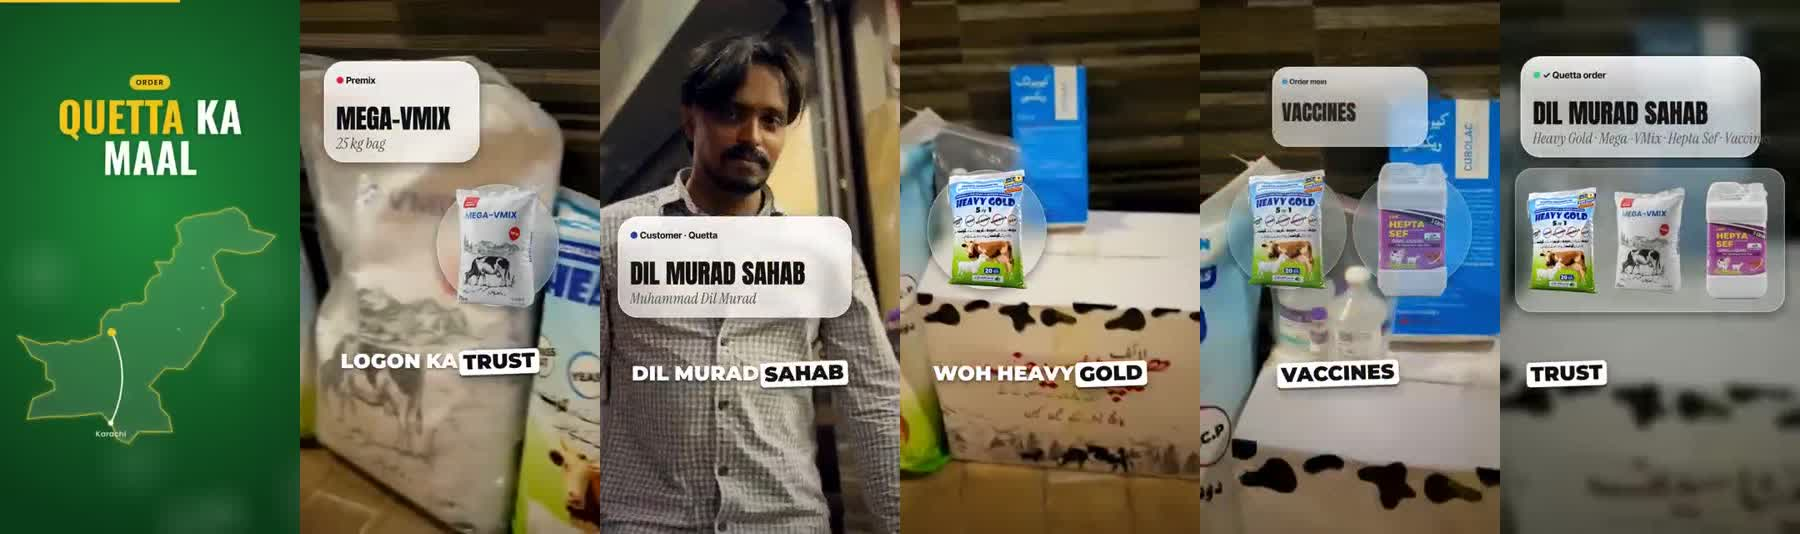
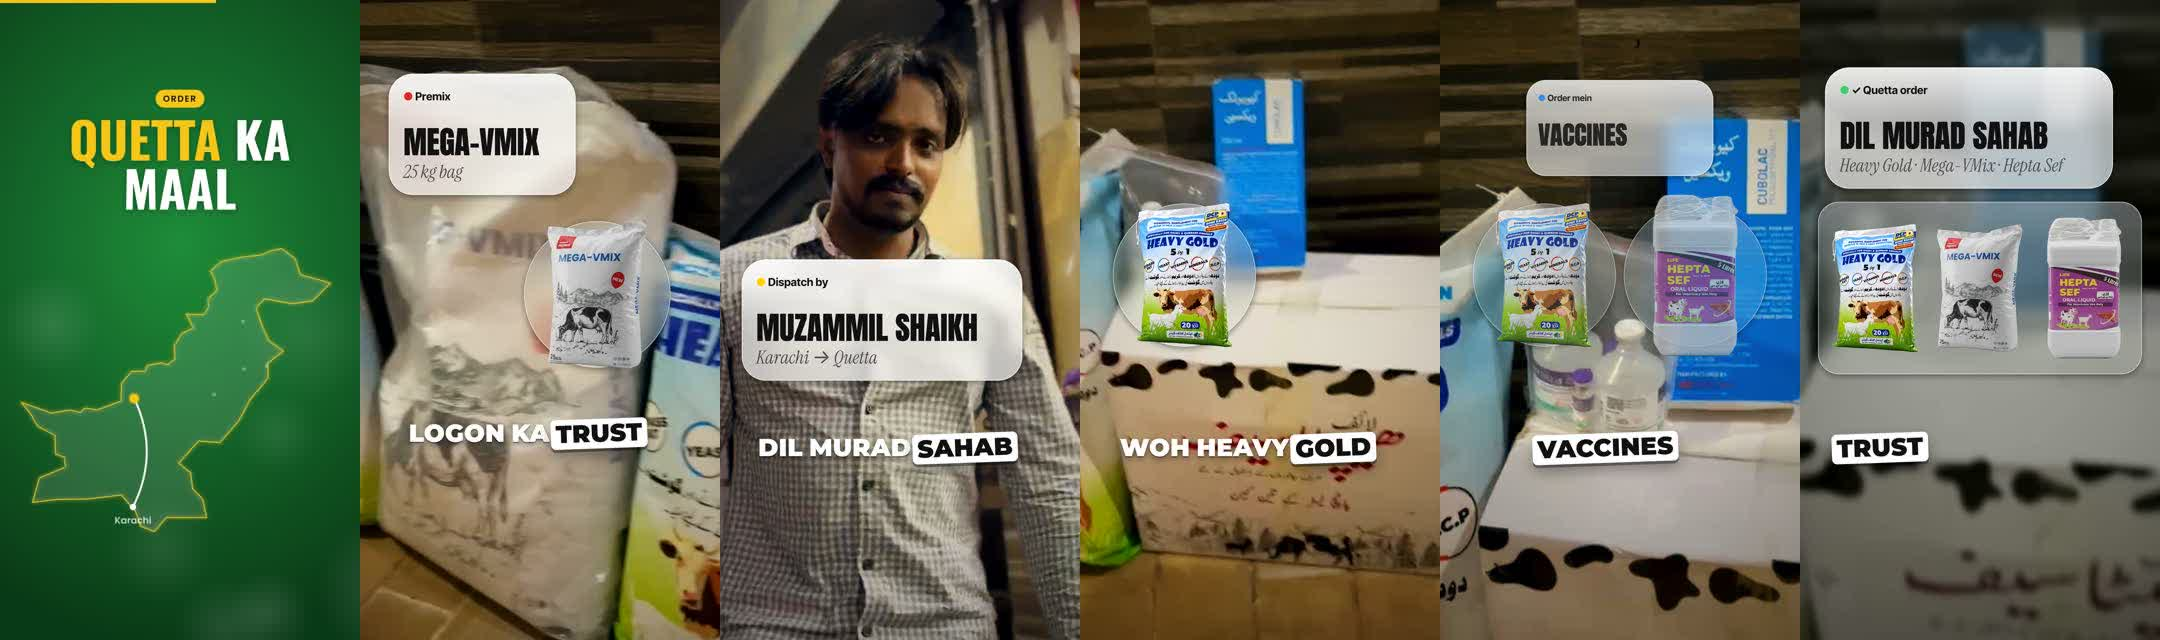
4K output: HTML layers rasterised at device scale, glass blur/border scale with width; Muzammil Shaikh widget
Claude-Session: https://claude.ai/code/session_0139To4Bi5mkGo2BmfVPNRP3

diff --git a/tools/htmlcaps/render.js b/tools/htmlcaps/render.js
@@ -14,7 +14,7 @@ const { chromium } = require("playwright");
     ${job.css}
   </style></head><body><div id="cap"></div></body></html>`;
   const browser = await chromium.launch();
-  const page = await browser.newPage({ viewport: { width: job.width, height: job.height }, deviceScaleFactor: 1 });
+  const page = await browser.newPage({ viewport: { width: job.width, height: job.height }, deviceScaleFactor: job.scale || 1 });
   // load from a file next to the job so file:// images (product cutouts) are allowed
   const path = require("path");
   const pagePath = path.join(path.dirname(path.resolve(process.argv[2])), "page.html");

diff --git a/tools/render.py b/tools/render.py
@@ -713,7 +713,7 @@ def glass_chain(gl: dict, k: int, cv: str, W: int, H: int, fps: int, total: floa
     face.putalpha(Image.fromarray(np.minimum(np.array(face.split()[-1]).astype(int) + np.array(hl).astype(int), 255).astype("uint8")))
     bd = Image.new("RGBA", (bw * ss, bh * ss), (0, 0, 0, 0))
     ImageDraw.Draw(bd).rounded_rectangle((ss, ss, bw * ss - ss - 1, bh * ss - ss - 1), rad * ss,
-                                         outline=bc + (int(255 * float(gl.get("border", 0.55))),), width=int(gl.get("border_width", 2)) * ss)
+                                         outline=bc + (int(255 * float(gl.get("border", 0.55))),), width=max(1, round(float(gl.get("border_width", 2)) * W / 1080)) * ss)
     face.alpha_composite(bd.resize((bw, bh), Image.LANCZOS))
     clear = Image.new("RGBA", (bw, bh), (0, 0, 0, 0))
     face = Image.composite(face, clear, mask)
@@ -728,7 +728,7 @@ def glass_chain(gl: dict, k: int, cv: str, W: int, H: int, fps: int, total: floa
         inputs += ["-loop", "1", "-framerate", str(fps), "-t", f"{total:.3f}", "-i", f"glass{k}_{name}.png"]
     fade = f"fade=t=in:st={s0}:d=0.25:alpha=1,fade=t=out:st={max(s0, s1 - 0.25):.3f}:d=0.25:alpha=1"
     en = f"enable='between(t,{s0},{s1})'"
-    blur = float(gl.get("blur", 22))
+    blur = float(gl.get("blur", 22)) * W / 1080  # same look at 1080p and 4K
     g.append(f"{cv}split[ga{k}][gb{k}]")
     g.append(f"[gb{k}]crop={bw}:{bh}:{x0}:{y0},gblur=sigma={blur},eq=brightness={float(gl.get("brightness", 0.05))}:saturation={float(gl.get("saturation", 1.3))},format=rgba[gbl{k}]")
     g.append(f"[{idx}:v]format=gray[gm{k}]")

diff --git a/tools/cards.py b/tools/cards.py
@@ -254,7 +254,9 @@ def map_svg(c: dict, t: float, W: int, H: int, th: dict) -> str:
 
 def build(edit: dict, out_dir: Path, fps: int, total: float, fonts: list, resolve_src) -> Path:
     need("node")
-    W, H = edit["output"]["width"], edit["output"]["height"]
+    OW, OH = edit["output"]["width"], edit["output"]["height"]
+    sc = OW / 1080 if OW > 1080 else 1  # 4K: lay out at 1080 wide, rasterise at device scale (sharp, same design)
+    W, H = round(OW / sc), round(OH / sc)
     brand = {**DEFAULT_THEME, **(edit.get("brand") or {})}
     shutil.rmtree(out_dir, ignore_errors=True)
     out_dir.mkdir(parents=True)
@@ -279,11 +281,11 @@ def build(edit: dict, out_dir: Path, fps: int, total: float, fonts: list, resolv
             k += 1
     css = (HERE / "cards.css").read_text(encoding="utf-8")
     job = out_dir / "job.json"
-    job.write_text(json.dumps({"width": W, "height": H, "css": css, "fonts": fonts, "states": states}), encoding="utf-8")
+    job.write_text(json.dumps({"width": W, "height": H, "scale": sc, "css": css, "fonts": fonts, "states": states}), encoding="utf-8")
     run(["node", str(HERE / "render.js"), str(job)])
     from PIL import Image
     blank = out_dir / "blank.png"
-    Image.new("RGBA", (W, H), (0, 0, 0, 0)).save(blank)
+    Image.new("RGBA", (OW, OH), (0, 0, 0, 0)).save(blank)
     entries, t = [], 0.0
     for a, b, f in timeline:
         if a > t + 1e-3:
